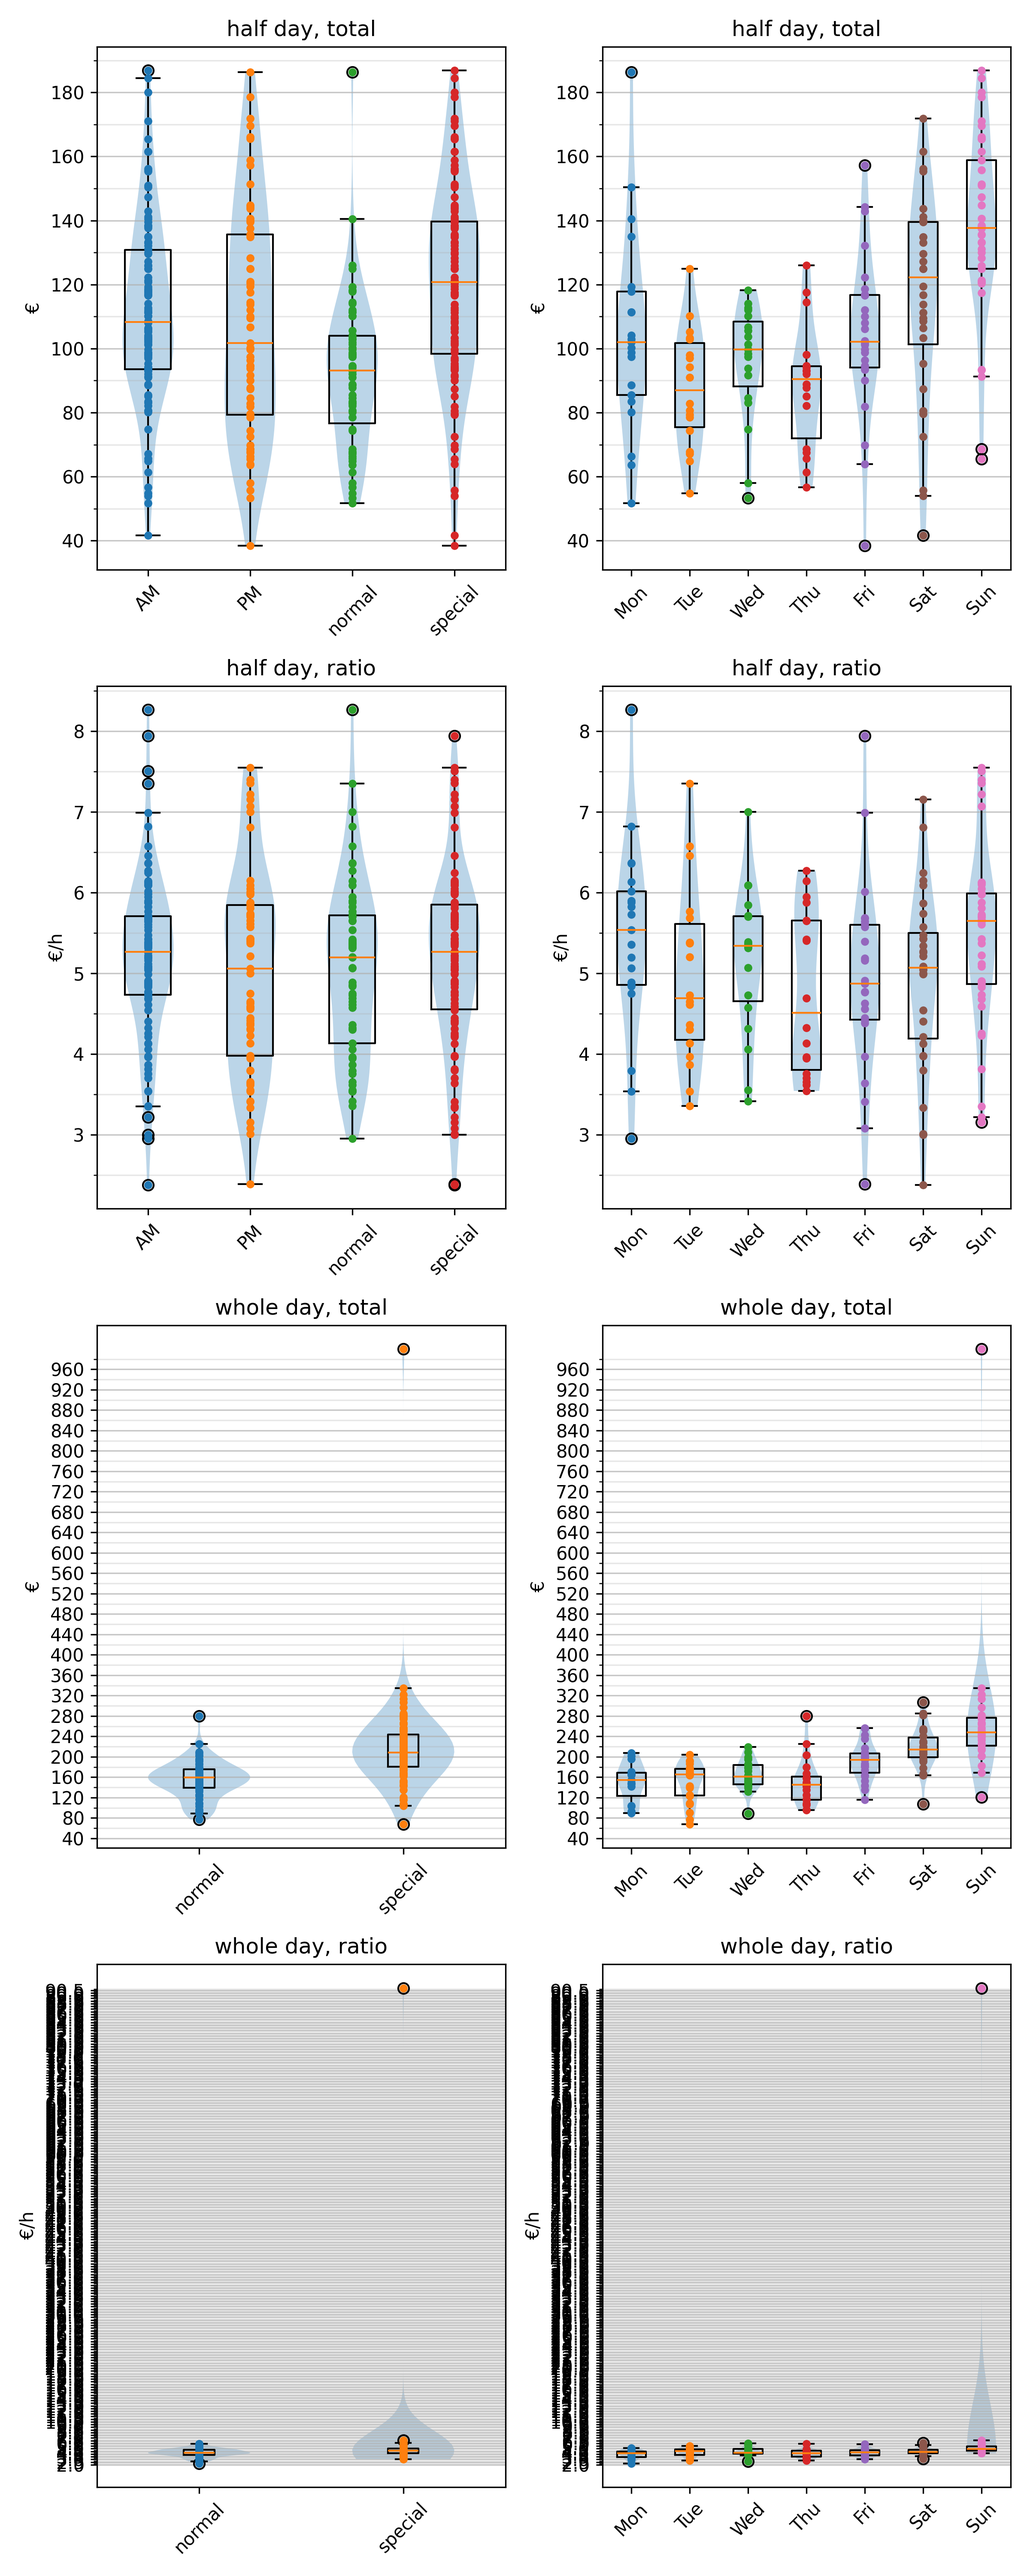
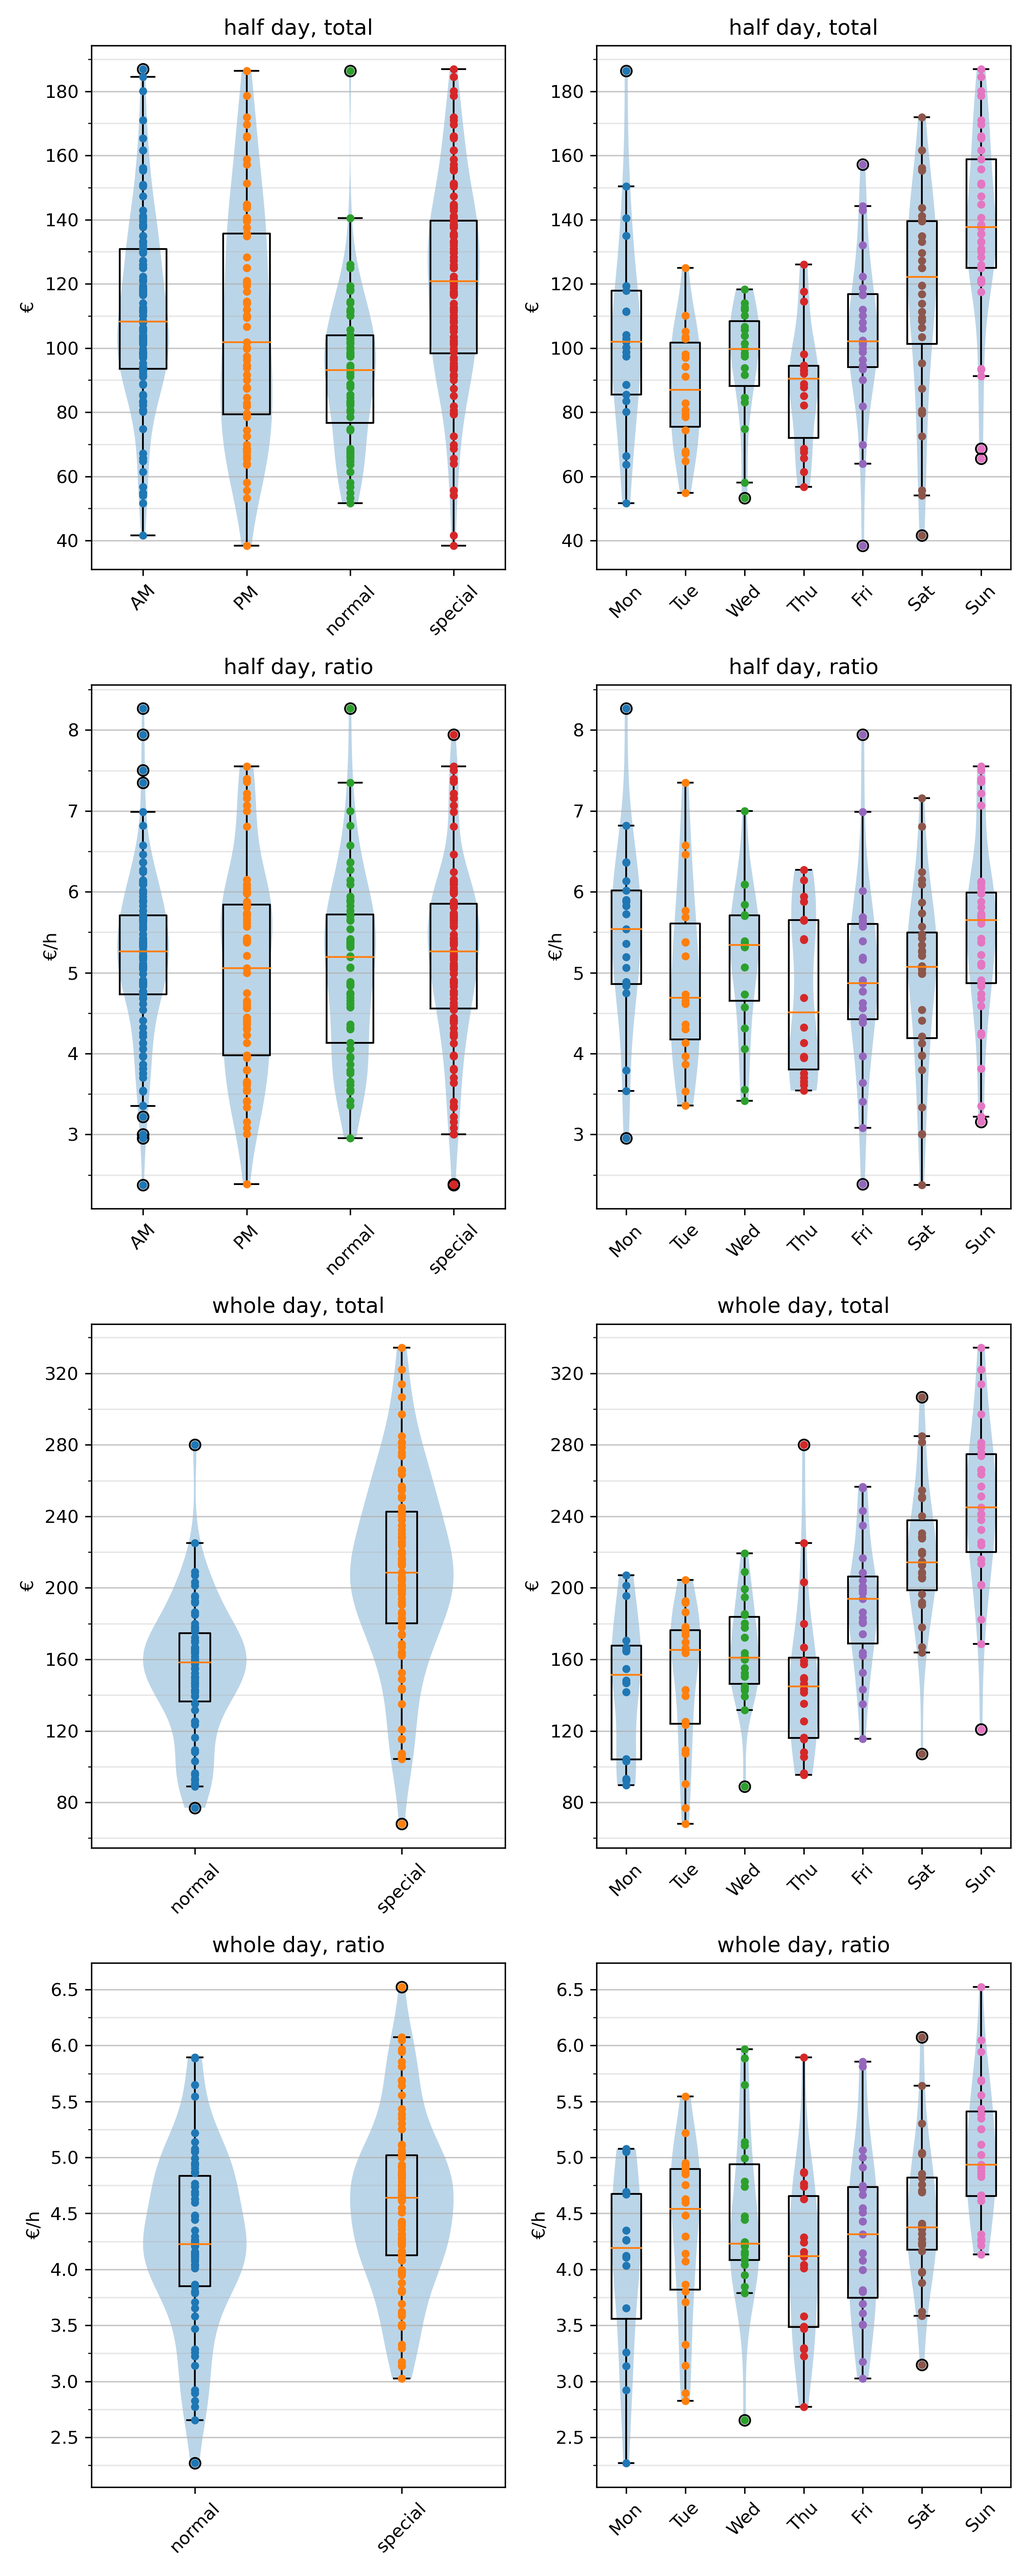
update plot

diff --git a/README.md b/README.md
@@ -1,23 +1,23 @@
-last update: 15.09.2024, Sunday, time: 21:23
+last update: 16.09.2024, Monday, time: 12:54
 # Statistic  
 Special: Holiday in Germany NRW and Friday till Sunday  
 Currency is in euro, ratio is in €/h  
 ## Overview  
                whole                half  
 ------+--------------------+--------------------  
-total   191.282 +/- 84.209   110.095 +/- 31.529  
-ratio     4.986 +/-  6.945     5.135 +/-  1.100  
-bar      78.309 +/- 25.237    45.614 +/- 19.873  
-card    110.063 +/- 37.928    58.267 +/- 26.865  
+total   185.463 +/- 54.108   110.095 +/- 31.529  
+ratio     4.436 +/-  0.773     5.135 +/-  1.100  
+bar      78.091 +/- 25.255    45.614 +/- 19.873  
+card    109.519 +/- 38.264    58.267 +/- 26.865  
   
   
 ## Top three  
 ### Total  
 &nbsp;|total|ratio|timestamp
 ---|---|---|---
-1":|1000.00€|90.910€/h|15.09.2024 Sun PM
-2":|334.35€|6.524€/h|22.10.2023 Sun PM
-3":|322.02€|6.047€/h|13.08.2023 Sun PM
+1":|334.35€|6.524€/h|22.10.2023 Sun PM
+2":|322.02€|6.047€/h|13.08.2023 Sun PM
+3":|313.99€|5.024€/h|15.09.2024 Sun PM
 1":|186.83€|6.126€/h|03.03.2024 Sun AM
 2":|186.40€|4.749€/h|01.07.2024 Mon PM
 3":|184.50€|6.099€/h|13.08.2023 Sun AM
@@ -25,9 +25,9 @@ card    110.063 +/- 37.928    58.267 +/- 26.865
 ### Ratio  
 &nbsp;|ratio|total|timestamp
 ---|---|---|---
-1":| 90.91€|1000.000€/h|15.09.2024 Sun PM
-2":|  6.52€|334.350€/h|22.10.2023 Sun PM
-3":|  6.08€|306.780€/h|14.10.2023 Sat PM
+1":|  6.52€|334.350€/h|22.10.2023 Sun PM
+2":|  6.08€|306.780€/h|14.10.2023 Sat PM
+3":|  6.05€|322.020€/h|13.08.2023 Sun PM
 1":|  8.27€|140.530€/h|25.09.2023 Mon AM
 2":|  7.94€|142.930€/h|22.03.2024 Fri AM
 3":|  7.55€|166.090€/h|19.11.2023 Sun PM
@@ -38,13 +38,13 @@ card    110.063 +/- 37.928    58.267 +/- 26.865
 ------+--------------------+--------------------  
 ### Normal day  
 ------+--------------------+--------------------  
-total   154.800 +/- 36.434    92.198 +/- 23.322  
-ratio     4.235 +/-  0.768     5.044 +/-  1.084  
+total   153.852 +/- 36.955    92.198 +/- 23.322  
+ratio     4.248 +/-  0.769     5.044 +/-  1.084  
 ------+--------------------+--------------------  
 ### Special day  
 ------+--------------------+--------------------  
-total   217.340 +/- 97.870   120.163 +/- 31.076  
-ratio     5.523 +/-  9.031     5.186 +/-  1.106  
+total   208.644 +/- 52.944   120.163 +/- 31.076  
+ratio     4.574 +/-  0.747     5.186 +/-  1.106  
   
   
 ## Weekday  
@@ -52,8 +52,8 @@ ratio     5.523 +/-  9.031     5.186 +/-  1.106
 ------+--------------------+--------------------  
 ### Monday  
 ------+--------------------+--------------------  
-total:  150.155 +/- 36.855   104.618 +/- 30.235  
-ratio:    3.991 +/-  0.777     5.432 +/-  1.139  
+total:  146.538 +/- 38.337   104.618 +/- 30.235  
+ratio:    4.058 +/-  0.795     5.432 +/-  1.139  
 ------+--------------------+--------------------  
 ### Tuesday  
 ------+--------------------+--------------------  
@@ -82,8 +82,8 @@ ratio:    4.482 +/-  0.629     4.938 +/-  1.082
 ------+--------------------+--------------------  
 ### Sunday  
 ------+--------------------+--------------------  
-total:  272.586 +/- 147.300   138.032 +/- 28.178  
-ratio:    8.120 +/- 15.944     5.495 +/-  1.090  
+total:  245.645 +/- 46.664   138.032 +/- 28.178  
+ratio:    5.054 +/-  0.596     5.495 +/-  1.090  
   
   
 ## Half day  
